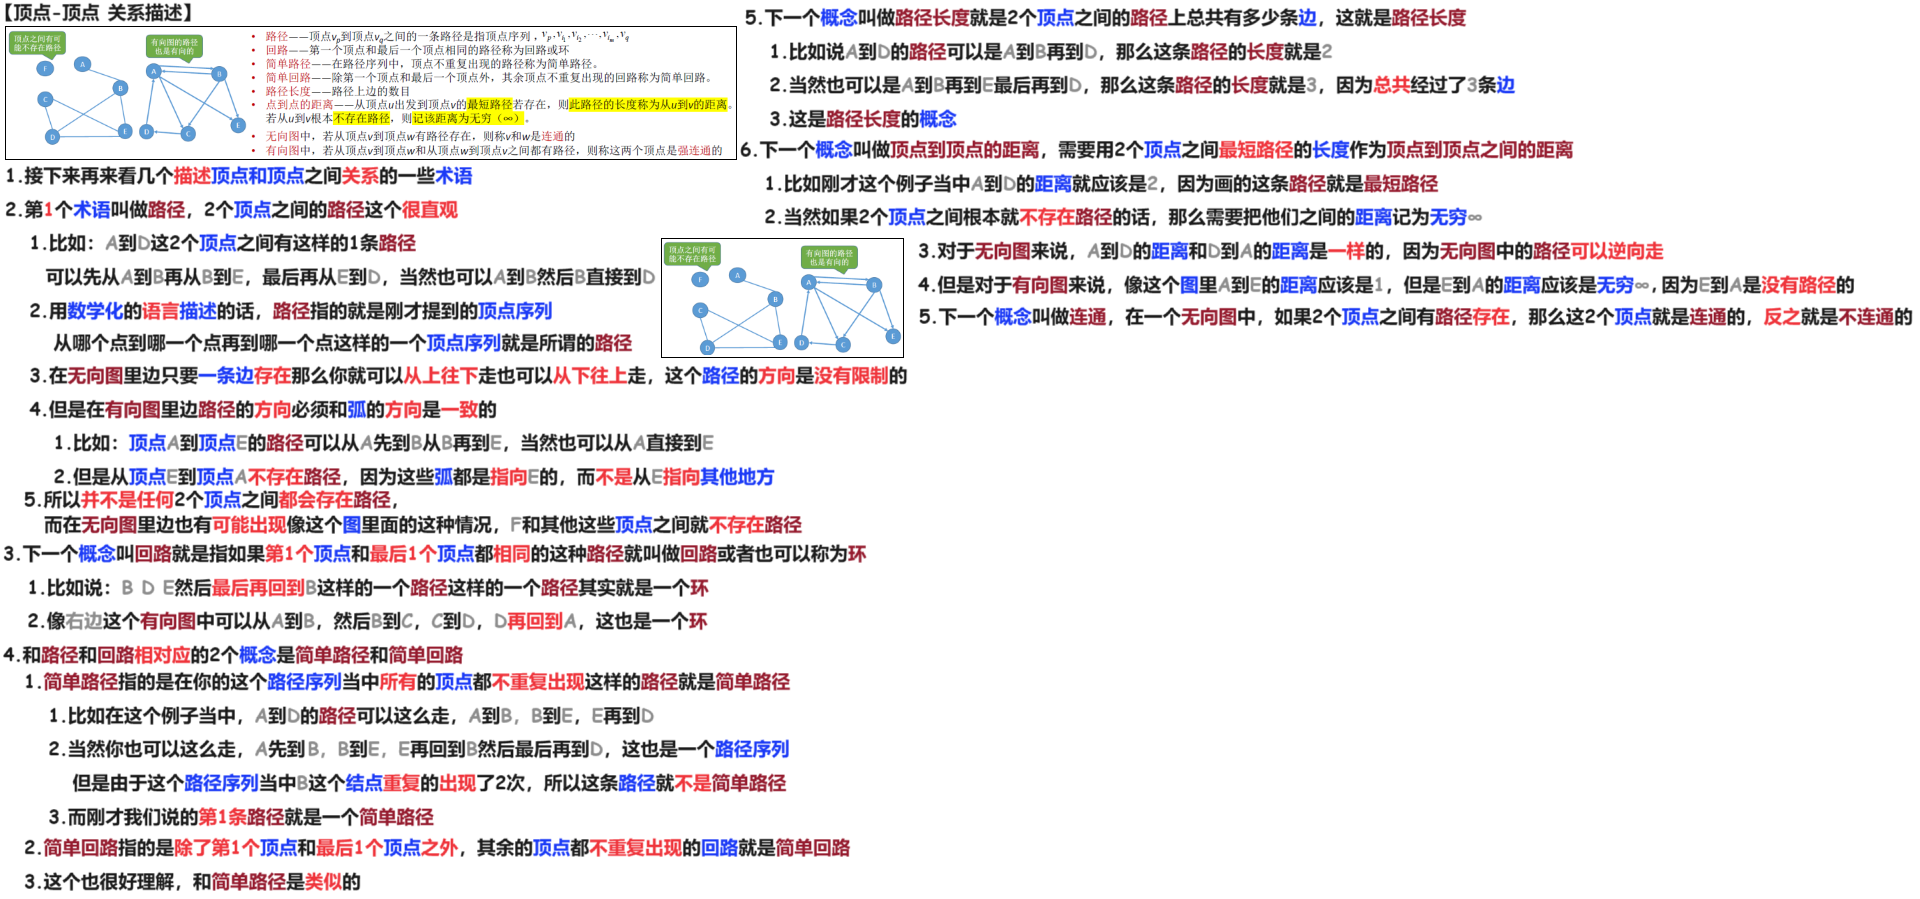
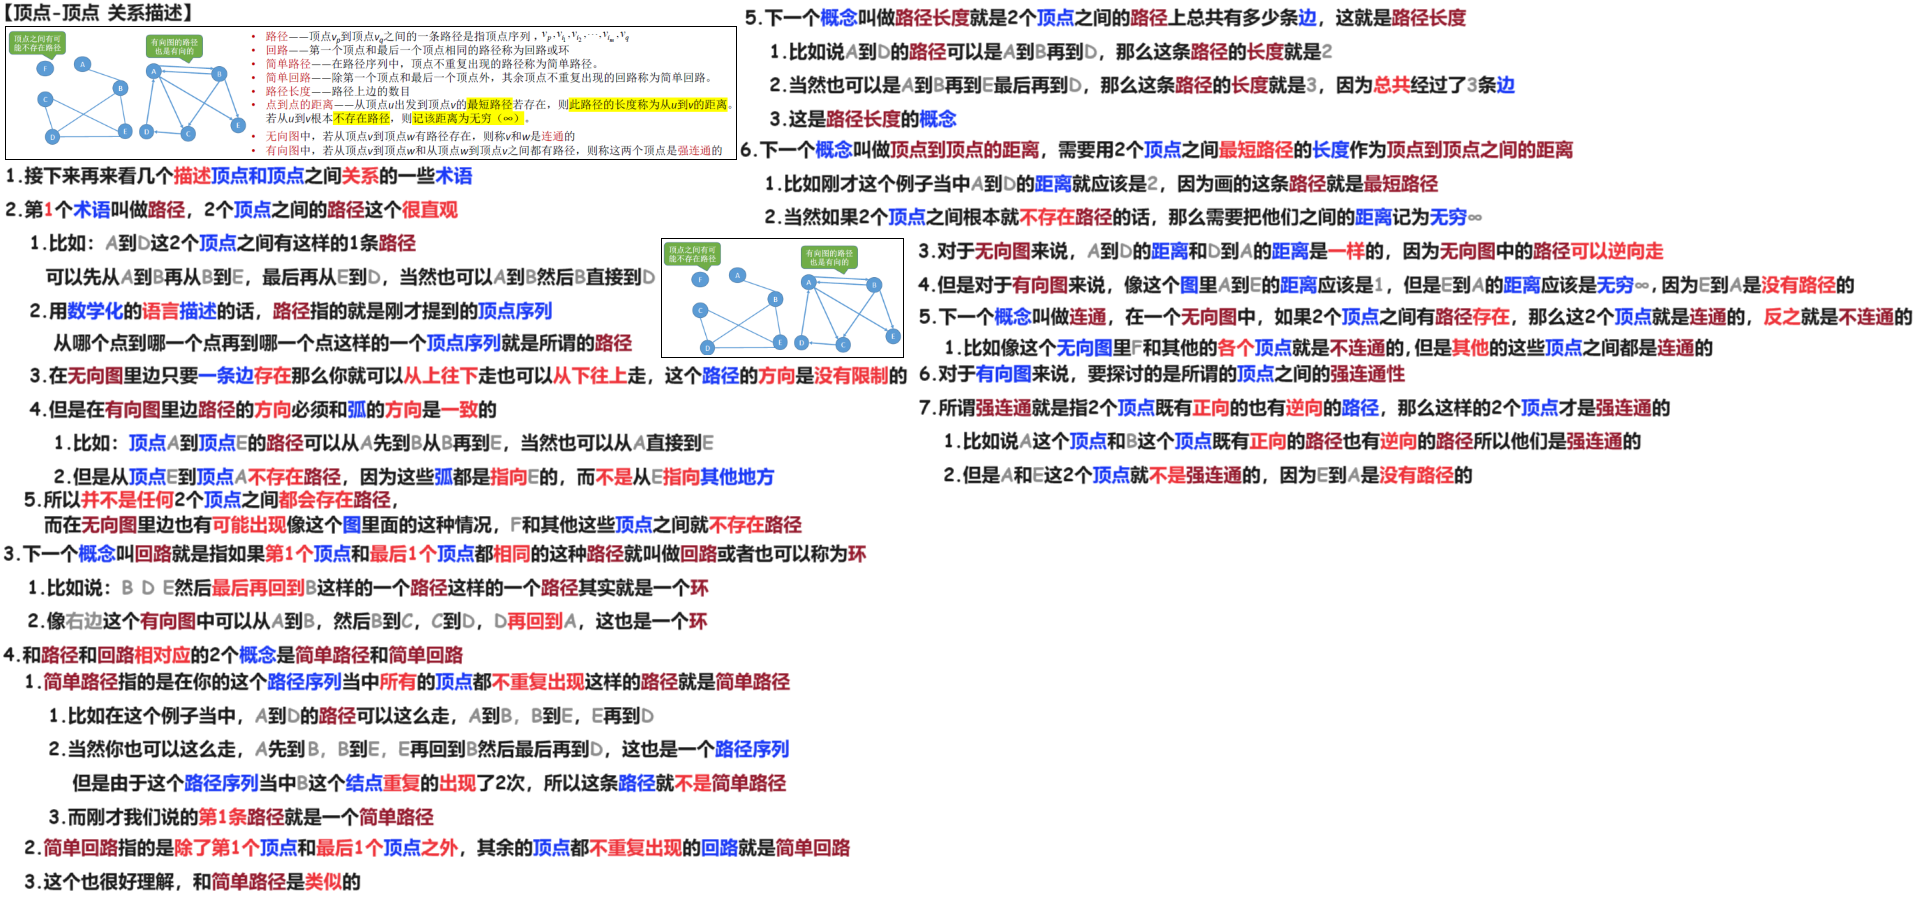
240403

Changed region(s): [[0.0923, 0.0, 1.0, 0.9967]]

diff --git a/01 初试/02 DS/02 24 王道 基础/06 图/01 图 定义 基本术语 240403/02 Doc.md b/01 初试/02 DS/02 24 王道 基础/06 图/01 图 定义 基本术语 240403/02 Doc.md
@@ -40,4 +40,9 @@
 
 # 07 顶点-顶点 关系描述
 
-<img src="https://cvp.oss-cn-shanghai.aliyuncs.com/picgo/202404031729479.png" alt="image-20240403172953348" style="zoom:50%;" />
+<img src="https://cvp.oss-cn-shanghai.aliyuncs.com/picgo/202404031827884.png" alt="image-20240403182737663" style="zoom:50%;" />
+
+
+
+# 08 连通图 强连通图
+
